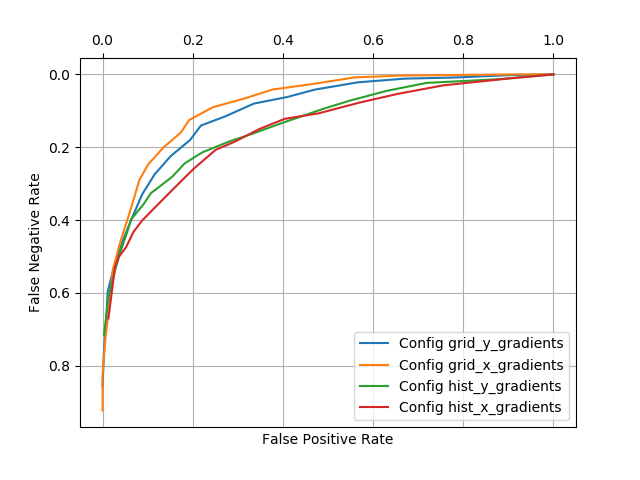
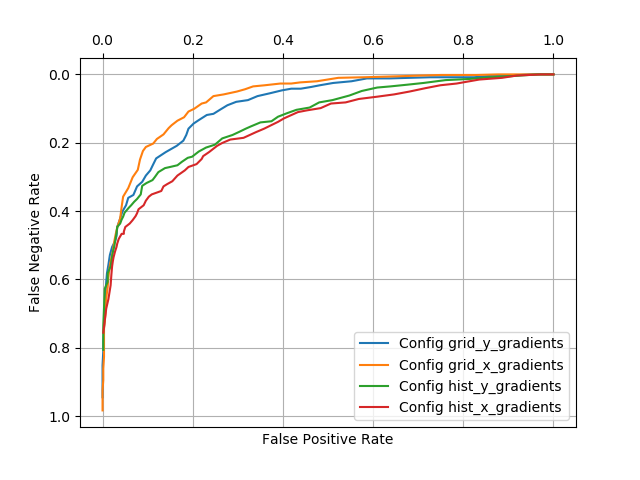
UPDATED: ROC curve with 60 trees simulation.

diff --git a/Assignment5/Code/assignments/prob1_roc_curves.py b/Assignment5/Code/assignments/prob1_roc_curves.py
@@ -55,7 +55,7 @@ if __name__ == '__main__':
 
     config = {'min_to_split': 2,
               'bagging_w_replacement': True,
-              'num_trees': 20,
+              'num_trees': 60,
               'feature_restriction': 20}
     configs = []
     config0 = {'name': 'grid_y_gradients',
